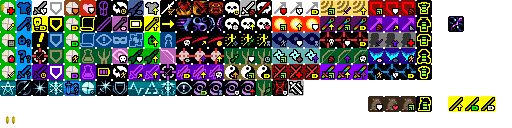
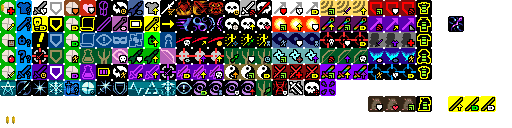
古墓boss标题补充，新增技能图标，白鹭动画修改

Changed region(s): [[0.5938, 0.625, 0.6562, 0.75]]

diff --git a/core/src/main/java/com/shatteredpixel/shatteredpixeldungeon/sprites/EgretSprite.java b/core/src/main/java/com/shatteredpixel/shatteredpixeldungeon/sprites/EgretSprite.java
@@ -50,7 +50,7 @@ public class EgretSprite extends MobSprite {
         zapParalysis.frames( frames, 24,25,26,27);
 
         spurnShieldNuptial = new Animation(12, false );
-        spurnShieldNuptial.frames( frames, 28,29,30,31,32,33,34,35);
+        spurnShieldNuptial.frames( frames, 28,29,30,31,32,0);
 
         baneDeadEnemy = new Animation(12, false );
         baneDeadEnemy.frames( frames,  4,5,6,7,8,0);
